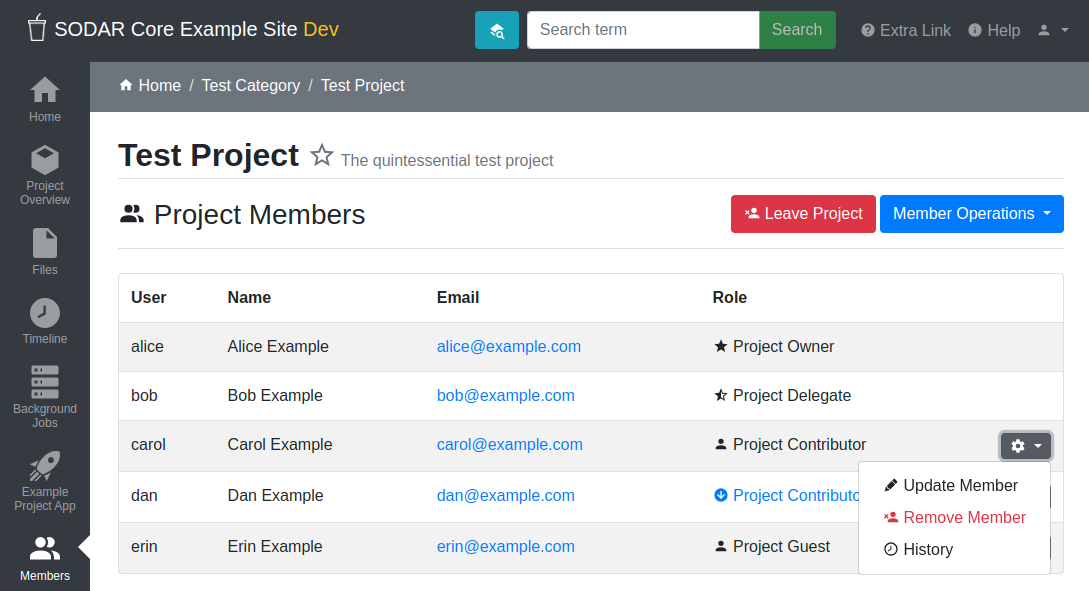
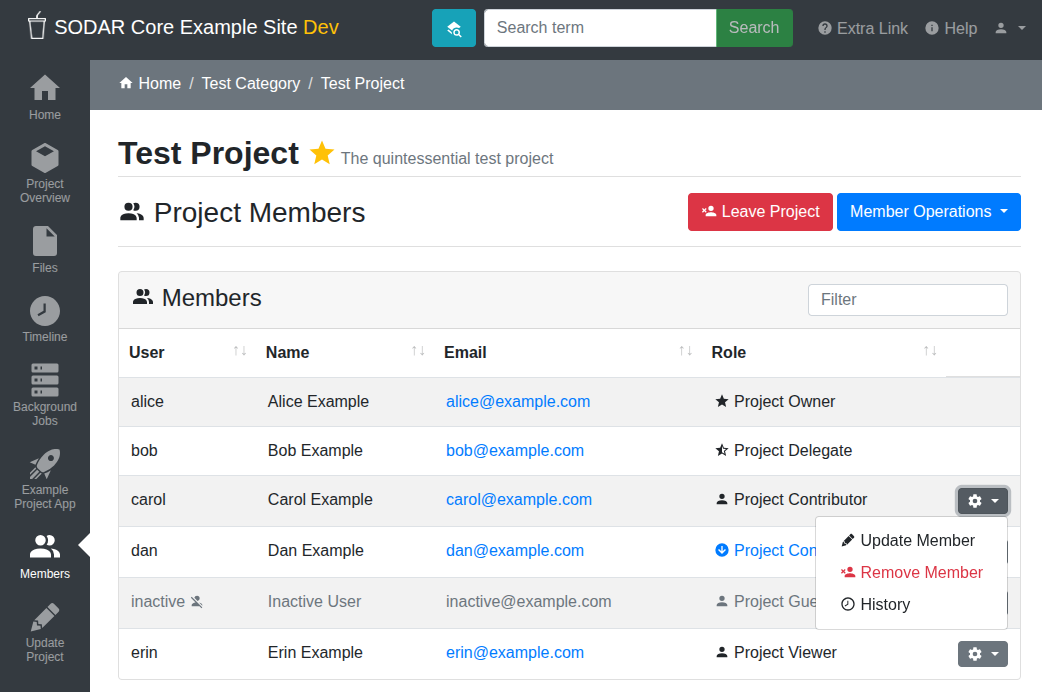
add role list pagination, ordering and filtering (#980, #1712)

diff --git a/projectroles/templates/projectroles/project_roles.html b/projectroles/templates/projectroles/project_roles.html
@@ -1,6 +1,7 @@
 {% extends 'projectroles/project_base.html' %}
 
 {% load rules %}
+{% load static %}
 {% load projectroles_tags %}
 {% load projectroles_role_tags %}
 {% load projectroles_common_tags %}
@@ -9,9 +10,29 @@
 
 {% block css %}
   {{ block.super }}
+  <!-- DataTables -->
+  <link rel="stylesheet" type="text/css" href="https://cdn.datatables.net/v/bs4/dt-1.11.3/b-2.0.1/datatables.min.css" />
+
   <style type="text/css">
+    div#sodar-pr-role-list-input-group {
+      max-width: 200px;
+    }
+    table#sodar-pr-role-list-table {
+        margin: 0 !important;
+    }
     table#sodar-pr-role-list-table tbody td:nth-child(5) {
       width: 3em;
+    }
+    /* DataTables modifications */
+    th.sorting {
+      padding-left: 10px !important;
+      border-bottom: 0 !important;
+    }
+    th.sorting::after {
+      padding-top: 7px !important;
+    }
+    .previous::before, .next::after {
+      display: none !important;
     }
     /* Responsive modifications */
     @media screen and (max-width: 1000px) {
@@ -80,6 +101,19 @@
   {% endif %}
 
   <div class="card" id="sodar-pr-role-list">
+    <div class="card-header">
+      <h4>
+        <i class="iconify" data-icon="mdi:account-multiple"></i> Members
+        <div class="input-group sodar-header-input-group pull-right"
+             id="sodar-pr-role-list-input-group">
+          <input class="form-control"
+                 type="text"
+                 placeholder="Filter"
+                 aria-label="Filter roles"
+                 id="sodar-pr-role-list-filter" />
+        </div>
+      </h4>
+    </div>
     <div class="card-body p-0">
       <table class="table table-striped sodar-card-table"
              id="sodar-pr-role-list-table">
@@ -106,6 +140,15 @@
 
 {% block javascript %}
   {{ block.super }}
+  <!-- Variables -->
+  <script type="text/javascript">
+    window.roleListPagination = {{ role_pagination }};
+  </script>
+  <!-- DataTables -->
+  <script type="text/javascript" src="https://cdn.datatables.net/v/bs4/dt-1.11.3/b-2.0.1/datatables.min.js"></script>
+  <!-- Project list -->
+  <script type="text/javascript" src="{% static 'projectroles/js/role_list.js' %}"></script>
+
   <!-- Tour content -->
   <script type="text/javascript">
     tourEnabled = true;
@@ -114,6 +157,13 @@
         text: 'List of users given access for this ' +
             '{% get_display_name 'PROJECT' %} can be seen here.',
         attachTo: '#sodar-pr-role-list top',
+        advanceOn: '.docs-link click',
+        showCancelLink: true
+    });
+    tour.addStep('role_filter', {
+        title: 'Filter Members',
+        text: 'You can filter the member list by entering text here.',
+        attachTo: '#sodar-pr-role-list-filter left',
         advanceOn: '.docs-link click',
         showCancelLink: true
     });

diff --git a/projectroles/static/projectroles/js/role_list.js b/projectroles/static/projectroles/js/role_list.js
@@ -1,0 +1,45 @@
+$(document).ready(function () {
+  // Enable datatables
+  $.fn.dataTable.ext.classes.sPageButton =
+        'btn sodar-list-btn ml-1 sodar-paginate-button btn-outline-light ' +
+        'text-primary';
+  var dt = $('#sodar-pr-role-list-table').DataTable({
+      ordering: true,
+      order: [], // Disable default ordering
+      scrollX: false,
+      paging: true,
+      pagingType: 'full_numbers',
+      pageLength: window.roleListPagination,
+      lengthChange: true,
+      scrollCollapse: true,
+      columnDefs: [
+          {orderable: false, searchable: false, targets: [4]},
+      ],  // Disable ordering and filtering for ops column
+      info: false,
+      language: {
+          paginate: {
+              first: '<i class="iconify text-primary" ' +
+                  'data-icon="mdi:arrow-left-circle-outline"></i> First',
+              previous: '<i class="iconify text-primary" ' +
+                  'data-icon="mdi:arrow-left-circle"></i> Prev',
+              next: 'Next <i class="iconify text-primary" ' +
+                  'data-icon="mdi:arrow-right-circle"></i>',
+              last: 'Last <i class="iconify text-primary" ' +
+                  'data-icon="mdi:arrow-right-circle-outline"></i>',
+          }
+      },
+      dom: 'tp'
+  });
+  // Hide pagination if only one page
+  if (dt.page.info().pages === 1) {
+      $('.dataTables_paginate').hide();
+  }
+
+  // Filter input
+  $('#sodar-pr-role-list-filter').keyup(function () {
+      var dt = $(this).closest(
+          '#sodar-pr-role-list').find('table').dataTable();
+      var v = $(this).val();
+      dt.fnFilter(v);
+  });
+});

diff --git a/projectroles/templates/projectroles/_project_list.html b/projectroles/templates/projectroles/_project_list.html
@@ -44,7 +44,7 @@
                placeholder="Filter"
                disabled="disabled"
                aria-label="Filter {% get_display_name 'PROJECT' title=False plural=True %}"
-               id="sodar-pr-project-list-filter">
+               id="sodar-pr-project-list-filter" />
       </div>
     </h4>
   </div>

diff --git a/projectroles/tests/test_ui.py b/projectroles/tests/test_ui.py
@@ -2745,7 +2745,7 @@ class TestProjectRoleView(RemoteTargetMixin, UITestBase):
         """Return role dropdown for a role"""
         row = self.selenium.find_element(
             By.XPATH,
-            f'//tr[@class="sodar-pr-role-list-row" and '
+            f'//tr[contains(@class, "sodar-pr-role-list-row") and '
             f'@data-user-uuid="{user.sodar_uuid}"]',
         )
         class_name = 'sodar-pr-role-dropdown'
@@ -2764,6 +2764,10 @@ class TestProjectRoleView(RemoteTargetMixin, UITestBase):
         self.url = reverse(
             'projectroles:roles', kwargs={'project': self.project.sodar_uuid}
         )
+        self.wait_kw = {
+            'wait_elem': 'dataTable',
+            'wait_loc': 'CLASS_NAME',
+        }
 
     def test_render_role_row(self):
         """Test rendering user role row"""
@@ -2965,7 +2969,7 @@ class TestProjectRoleView(RemoteTargetMixin, UITestBase):
 
     def test_role_dropdown_owner_local(self):
         """Test role dropdown items for local owner"""
-        self.login_and_redirect(self.superuser, self.url)
+        self.login_and_redirect(self.superuser, self.url, **self.wait_kw)
         elem = self._get_role_dropdown(self.user_owner, owner=True)
         self.assertIsNotNone(
             elem.find_element(By.CLASS_NAME, 'sodar-pr-role-item-transfer')
@@ -2976,13 +2980,13 @@ class TestProjectRoleView(RemoteTargetMixin, UITestBase):
         # Set category owner to new user
         self.owner_as_cat.user = self.user_assign
         self.owner_as_cat.save()
-        self.login_and_redirect(self.superuser, self.url)
+        self.login_and_redirect(self.superuser, self.url, **self.wait_kw)
         with self.assertRaises(NoSuchElementException):
             self._get_role_dropdown(self.user_assign, owner=True)
 
     def test_role_dropdown_delegate_local(self):
         """Test role dropdown items for local delegate"""
-        self.login_and_redirect(self.superuser, self.url)
+        self.login_and_redirect(self.superuser, self.url, **self.wait_kw)
         elem = self._get_role_dropdown(self.user_delegate)
         self.assertIsNotNone(
             elem.find_element(By.CLASS_NAME, 'sodar-pr-role-item-update')
@@ -2993,13 +2997,13 @@ class TestProjectRoleView(RemoteTargetMixin, UITestBase):
 
     def test_role_dropdown_delegate_inherited(self):
         """Test role dropdown items for inherited delegate"""
-        self.login_and_redirect(self.superuser, self.url)
+        self.login_and_redirect(self.superuser, self.url, **self.wait_kw)
         with self.assertRaises(NoSuchElementException):
             self._get_role_dropdown(self.user_delegate_cat)
 
     def test_role_dropdown_contrib_local(self):
         """Test role dropdown items for local contributor"""
-        self.login_and_redirect(self.superuser, self.url)
+        self.login_and_redirect(self.superuser, self.url, **self.wait_kw)
         elem = self._get_role_dropdown(self.user_contributor)
         self.assertIsNotNone(
             elem.find_element(By.CLASS_NAME, 'sodar-pr-role-item-update')
@@ -3013,7 +3017,7 @@ class TestProjectRoleView(RemoteTargetMixin, UITestBase):
         self.make_assignment(
             self.category, self.user_assign, self.role_contributor
         )
-        self.login_and_redirect(self.superuser, self.url)
+        self.login_and_redirect(self.superuser, self.url, **self.wait_kw)
         elem = self._get_role_dropdown(self.user_assign)
         self.assertIsNotNone(
             elem.find_element(By.CLASS_NAME, 'sodar-pr-role-item-promote')
@@ -3025,7 +3029,7 @@ class TestProjectRoleView(RemoteTargetMixin, UITestBase):
 
     def test_role_dropdown_guest_local(self):
         """Test role dropdown items for local guest"""
-        self.login_and_redirect(self.superuser, self.url)
+        self.login_and_redirect(self.superuser, self.url, **self.wait_kw)
         elem = self._get_role_dropdown(self.user_guest)
         self.assertIsNotNone(
             elem.find_element(By.CLASS_NAME, 'sodar-pr-role-item-update')
@@ -3037,7 +3041,7 @@ class TestProjectRoleView(RemoteTargetMixin, UITestBase):
     def test_role_dropdown_guest_inherited(self):
         """Test role dropdown items for inherited guest"""
         self.make_assignment(self.category, self.user_assign, self.role_guest)
-        self.login_and_redirect(self.superuser, self.url)
+        self.login_and_redirect(self.superuser, self.url, **self.wait_kw)
         elem = self._get_role_dropdown(self.user_assign)
         self.assertIsNotNone(
             elem.find_element(By.CLASS_NAME, 'sodar-pr-role-item-promote')
@@ -3065,8 +3069,48 @@ class TestProjectRoleView(RemoteTargetMixin, UITestBase):
             (self.user_viewer, 0),
         ]
         self.assert_element_count(
-            expected, self.url, 'sodar-pr-role-dropdown', attribute='class'
+            expected,
+            self.url,
+            'sodar-pr-role-dropdown',
+            attribute='class',
+            **self.wait_kw,
         )
+
+    def test_pagination_default(self):
+        """Test role list pagination with default settings"""
+        self.assertEqual(settings.PROJECTROLES_ROLE_PAGINATION, 15)
+        self.login_and_redirect(self.superuser, self.url, **self.wait_kw)
+        elems = self.selenium.find_elements(
+            By.CLASS_NAME, 'sodar-pr-role-list-row'
+        )
+        self.assertEqual(len(elems), 10)
+        elem = self.selenium.find_element(By.CLASS_NAME, 'dataTables_paginate')
+        self.assertEqual(elem.is_displayed(), False)
+
+    @override_settings(PROJECTROLES_ROLE_PAGINATION=2)
+    def test_pagination_limit(self):
+        """Test role list pagination with limit"""
+        self.login_and_redirect(self.superuser, self.url, **self.wait_kw)
+        elems = self.selenium.find_elements(
+            By.CLASS_NAME, 'sodar-pr-role-list-row'
+        )
+        self.assertEqual(len(elems), 2)
+        elem = self.selenium.find_element(By.CLASS_NAME, 'dataTables_paginate')
+        self.assertEqual(elem.is_displayed(), True)
+
+    def test_filter(self):
+        """Test role list filtering"""
+        self.login_and_redirect(self.superuser, self.url, **self.wait_kw)
+        elems = self.selenium.find_elements(
+            By.CLASS_NAME, 'sodar-pr-role-list-row'
+        )
+        self.assertEqual(len(elems), 10)
+        f_input = self.selenium.find_element(By.ID, 'sodar-pr-role-list-filter')
+        f_input.send_keys('owner')
+        elems = self.selenium.find_elements(
+            By.CLASS_NAME, 'sodar-pr-role-list-row'
+        )
+        self.assertEqual(len(elems), 2)  # Category and project owner
 
 
 class TestRoleAssignmentCreateView(UITestBase):

diff --git a/projectroles/tests/test_views.py b/projectroles/tests/test_views.py
@@ -6,6 +6,7 @@ import uuid
 from typing import Optional
 from urllib.parse import urlencode
 
+from django.conf import settings
 from django.contrib import auth
 from django.contrib.messages import get_messages
 from django.core import mail
@@ -3198,6 +3199,9 @@ class TestProjectRoleView(
             },
         ]
         self.assertEqual([model_to_dict(m) for m in context['roles']], expected)
+        self.assertEqual(
+            context['role_pagination'], settings.PROJECTROLES_ROLE_PAGINATION
+        )
         self.assertNotIn('remote_role_url', context)
         self.assertEqual(context['site_read_only'], False)
         self.assertEqual(

diff --git a/config/settings/base.py b/config/settings/base.py
@@ -636,6 +636,8 @@ PROJECTROLES_SIDEBAR_ICON_SIZE = env.int('PROJECTROLES_SIDEBAR_ICON_SIZE', 36)
 # PROJECTROLES_SECRET_LENGTH = 32
 # PROJECTROLES_HELP_HIGHLIGHT_DAYS = 7
 # PROJECTROLES_SEARCH_PAGINATION = 5
+# Role list pagination
+PROJECTROLES_ROLE_PAGINATION = 15
 # Support for viewing the site in "kiosk mode" (experimental)
 # PROJECTROLES_KIOSK_MODE = env.bool('PROJECTROLES_KIOSK_MODE', False)
 # Scroll project navigation with page content if set False

diff --git a/projectroles/views.py b/projectroles/views.py
@@ -2047,6 +2047,7 @@ class ProjectRoleView(
         context['roles'] = sorted(
             project.get_roles(), key=lambda x: [x.role.rank, x.user.username]
         )
+        context['role_pagination'] = settings.PROJECTROLES_ROLE_PAGINATION
         owner_rank = ROLE_RANKING[PROJECT_ROLE_OWNER]
         context['enable_owner_transfer'] = any(
             [r.role.rank >= owner_rank for r in context['roles']]

diff --git a/config/settings/test.py b/config/settings/test.py
@@ -121,6 +121,7 @@ PROJECTROLES_INVITE_EXPIRY_DAYS = 14
 PROJECTROLES_SEND_EMAIL = True
 PROJECTROLES_EMAIL_SENDER_REPLY = False
 PROJECTROLES_SEARCH_PAGINATION = 10
+PROJECTROLES_ROLE_PAGINATION = 15
 PROJECTROLES_KIOSK_MODE = False
 PROJECTROLES_HIDE_PROJECT_APPS = []
 PROJECTROLES_DELEGATE_LIMIT = 1

diff --git a/docs/source/app_projectroles_usage.rst b/docs/source/app_projectroles_usage.rst
@@ -169,10 +169,10 @@ Updating Categories and Projects
 An existing project or category can be updated from the
 **Update Project/Category** link in the side bar. Again, a similar form as
 before will be presented to the user. The owner can not be changed here, but
-must be modified in the *Members* view instead. It is possible to move the
-current category or project under another category by altering the ``parent``
-field. The user who does the updating must have a sufficient role in the
-target category or superuser status.
+must be modified in the :guilabel:`Members` view instead. It is possible to move
+the current category or project under another category by altering the
+``parent`` field. The user who does the updating must have a sufficient role in
+the target category or superuser status.
 
 .. figure:: _static/app_projectroles/sodar_project_update.png
     :align: center
@@ -317,7 +317,7 @@ confirm the action.
 Member Management
 =================
 
-Project member roles can be viewed and modified through the **Members**
+Project member roles can be viewed and modified through the :guilabel:`Members`
 link on the sidebar. Modification requires a sufficient role in the project or
 category (owner or delegate) or superuser status.
 
@@ -326,6 +326,10 @@ category (owner or delegate) or superuser status.
     :scale: 55%
 
     Project member list view
+
+The member table lists all members of the category or project, initially ordered
+by descending order of role level. The table can be sorted by any column and
+filtered by typing test into the input box on the top right side of the table.
 
 All members of categories automatically inherit identical access rights to
 subcategories and projects under those categories. Inherited member roles can be
@@ -341,9 +345,9 @@ Adding Members
 
 There are two ways to add new members to a project or a category:
 
-- **Add Member** is used to add member roles to system users.
-- **Invite Member** is used to send email invites to users not yet registered
-  in the system.
+- :guilabel:`Add Member` is used to add member roles to system users.
+- :guilabel:`Send Invite` is used to send email invites to users not yet
+  registered in the system.
 
 Addition or modification of users sends an email notification to the user in
 question if email sending is enabled on your Django server. The emails can be

diff --git a/CHANGELOG.rst b/CHANGELOG.rst
@@ -37,6 +37,8 @@ Added
     - ``get_project_badge()`` common template tag (#1695)
     - First and last links in pagination controls (#1714, #1715)
     - Optional disabled user deactivation in ``checkusers`` command (#1697)
+    - ``ProjectRoleView`` list pagination, ordering and filtering (#980, #1712)
+    - ``PROJECTROLES_ROLE_PAGINATION`` Django setting (#1712)
 - **Timeline**
     - Include user full name and username in event search (#1713)
 
@@ -64,6 +66,7 @@ Changed
     - Move ``AppLinkAPI`` into ``app_links`` (#1709)
     - Deprecate ``_project_badge.html`` include template (#1695)
     - Remove redundant ``RoleAssignmentOwnerTransferForm`` ``project`` field (#1654)
+    - Render project role list using DataTables (#1712)
 - **Timeline**
     - Display user as badge instead of separate column (#1622, #1698)
     - Display event status in search results (#1678)

diff --git a/docs/source/major_changes.rst b/docs/source/major_changes.rst
@@ -20,6 +20,7 @@ Release Highlights
 - Add project viewer role support for project public read-only access
 - Add search by object UUID
 - Add user opt-out settings for app alert notifications
+- Add project member list pagination, ordering and filtering
 - Add project invite retrieval REST API view
 - Add temporary project access blocking for superusers
 - Add blockprojectaccess management command
